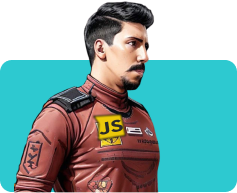
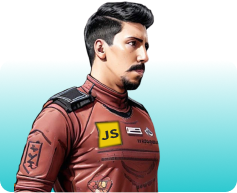
fix: image hero blog

diff --git a/styles/Hero.module.css b/styles/Hero.module.css
@@ -141,14 +141,17 @@
 @keyframes floating {
     0% {
         transform: translate(0, 0);
+        filter: blur(0);
     }
 
     50% {
         transform: translate(0, 10px);
+        filter: blur(2px);
     }
 
     100% {
         transform: translate(0, 0);
+        filter: blur(0);
     }
 }
 
@@ -163,14 +166,17 @@
 @keyframes floatingHtml {
     0% {
         transform: translate(0, 0);
+        filter: blur(0);
     }
 
     50% {
-        transform: translate(0, 5px);
+        transform: translate(0, 10px);
+        filter: blur(2px);
     }
 
     100% {
         transform: translate(0, 0);
+        filter: blur(0);
     }
 }
 

diff --git a/styles/globals.css b/styles/globals.css
@@ -116,7 +116,6 @@ marquee {
   }
 }
 
-
 .marquee:after {
   content: "";
   position: absolute;
@@ -172,7 +171,6 @@ marquee svg:last-child {
 }
 
 /* tag card */
-
 .tag {
   font-family: 'Inter', sans-serif;
   margin-top: -17px;
@@ -191,12 +189,12 @@ marquee svg:last-child {
 }
 
 .projeto {
-  color: #ffffff;
+  color: var(--color-white);
   background-color: #2DC9D0;
 }
 
 .artigo {
-  color: #ffffff;
+  color: var(--color-white);
   background-color: var(--color-purple);
 }
 
@@ -229,7 +227,6 @@ marquee svg:last-child {
   -webkit-background-clip: text;
   -webkit-text-fill-color: transparent;
 }
-
 
 /* CSS */
 .button-49,
